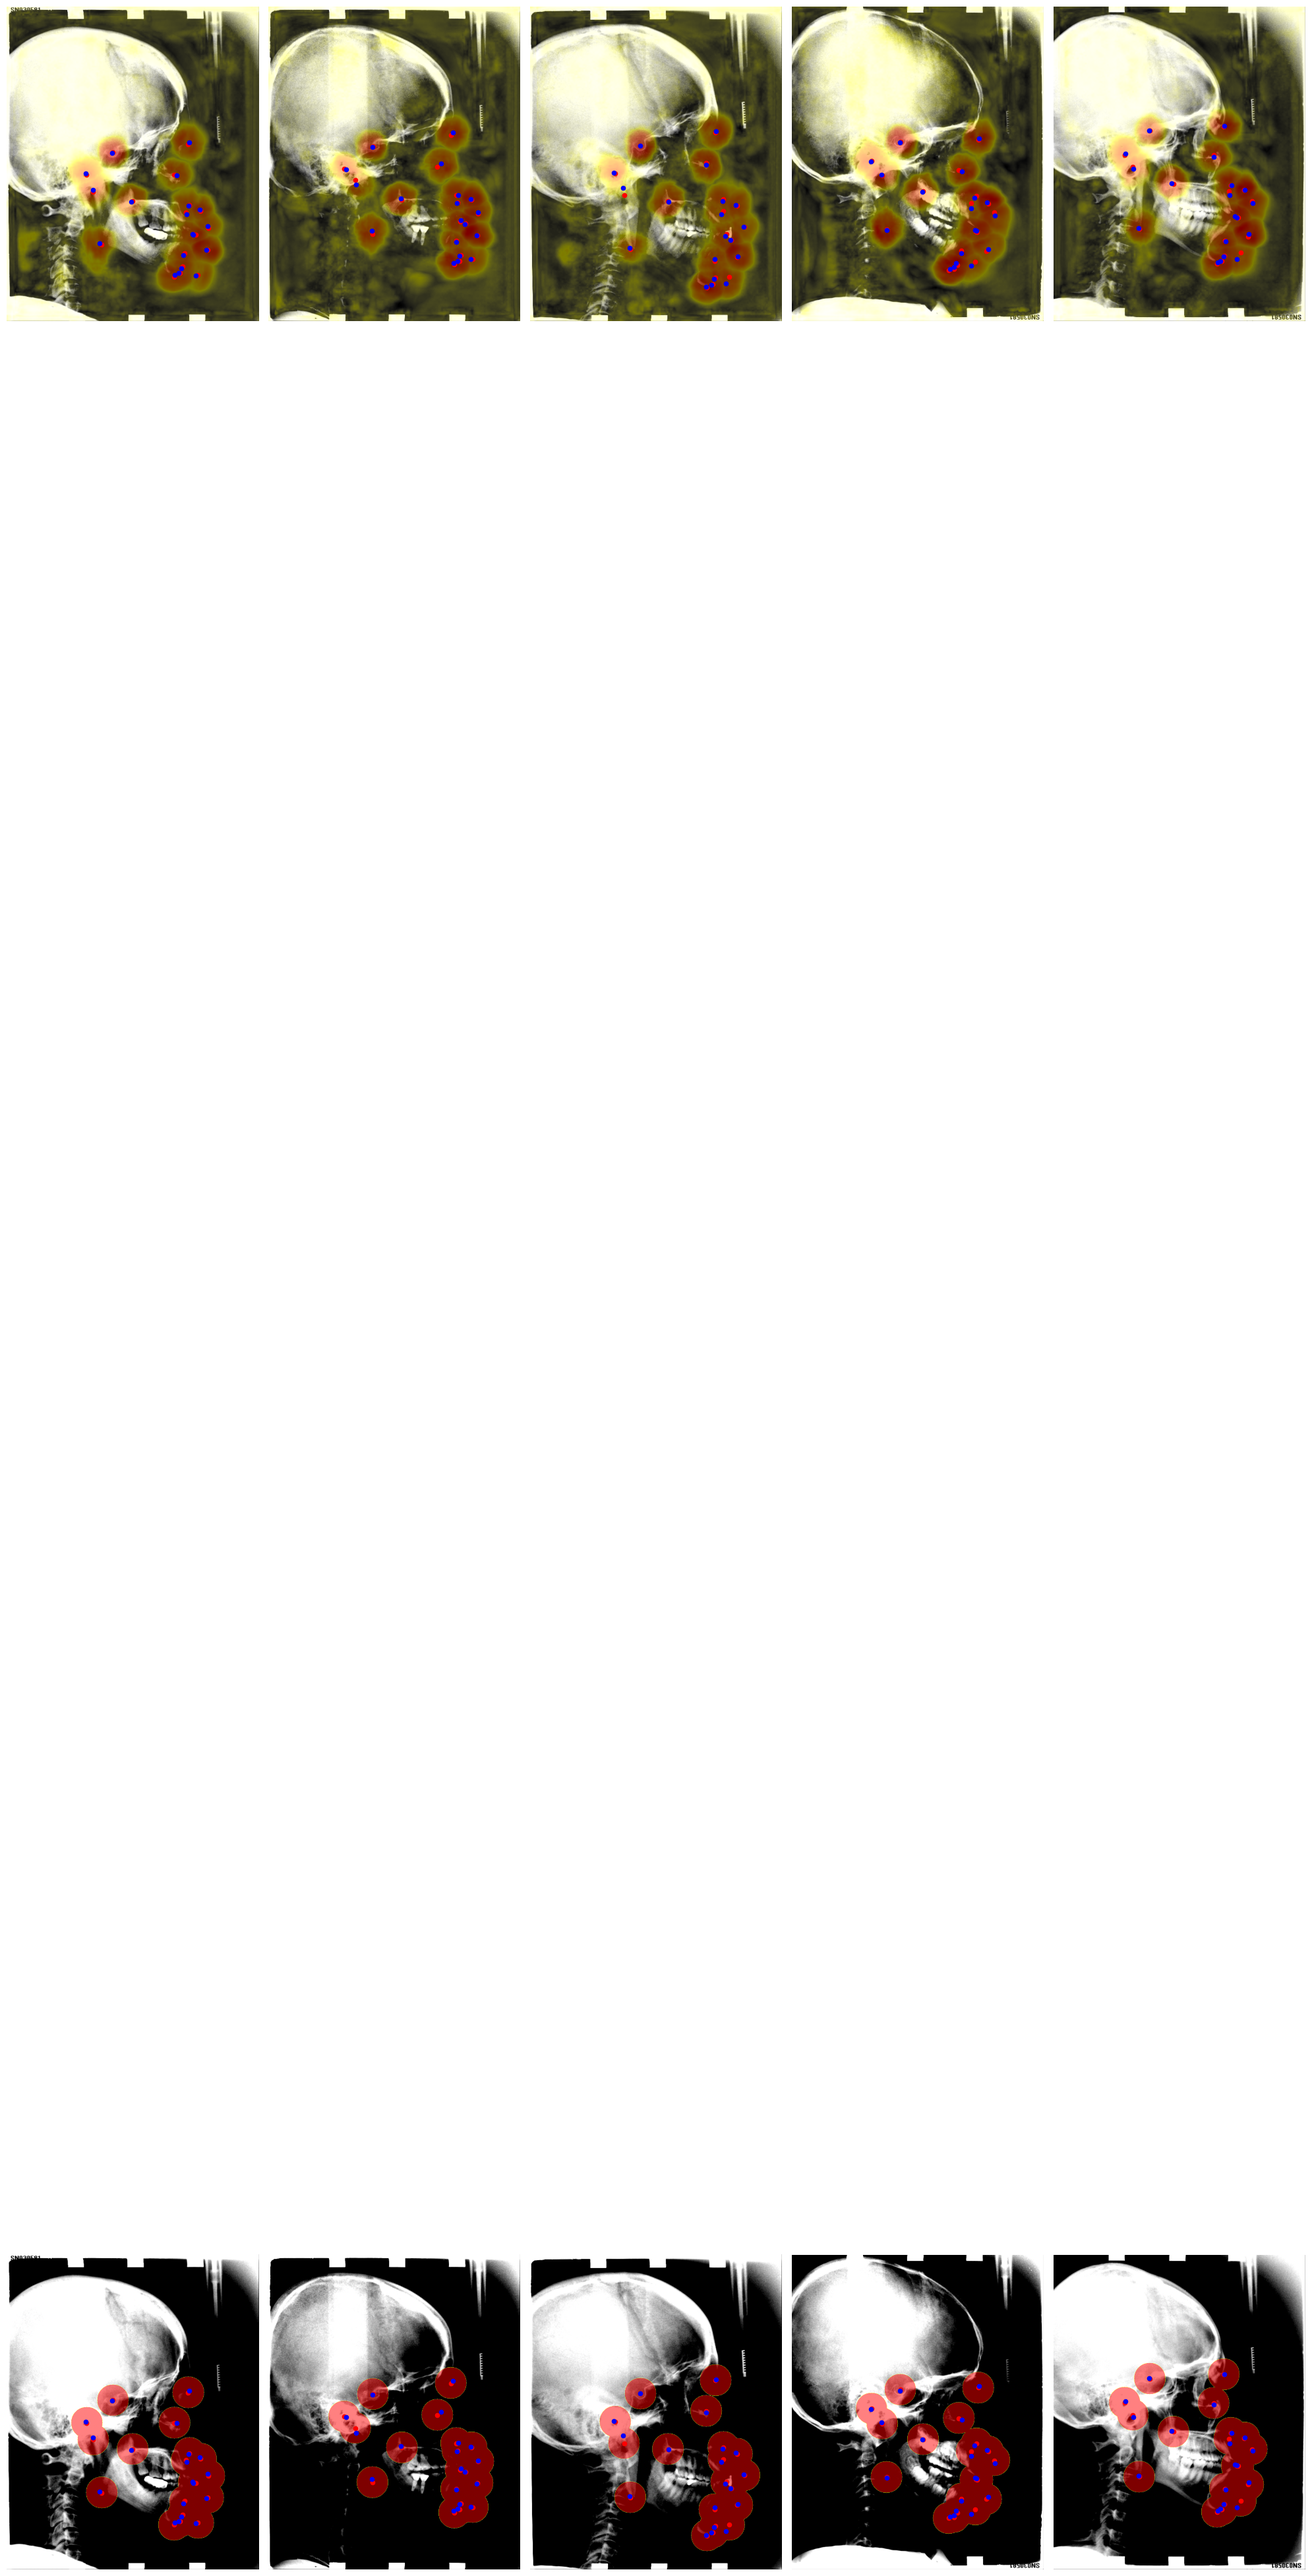
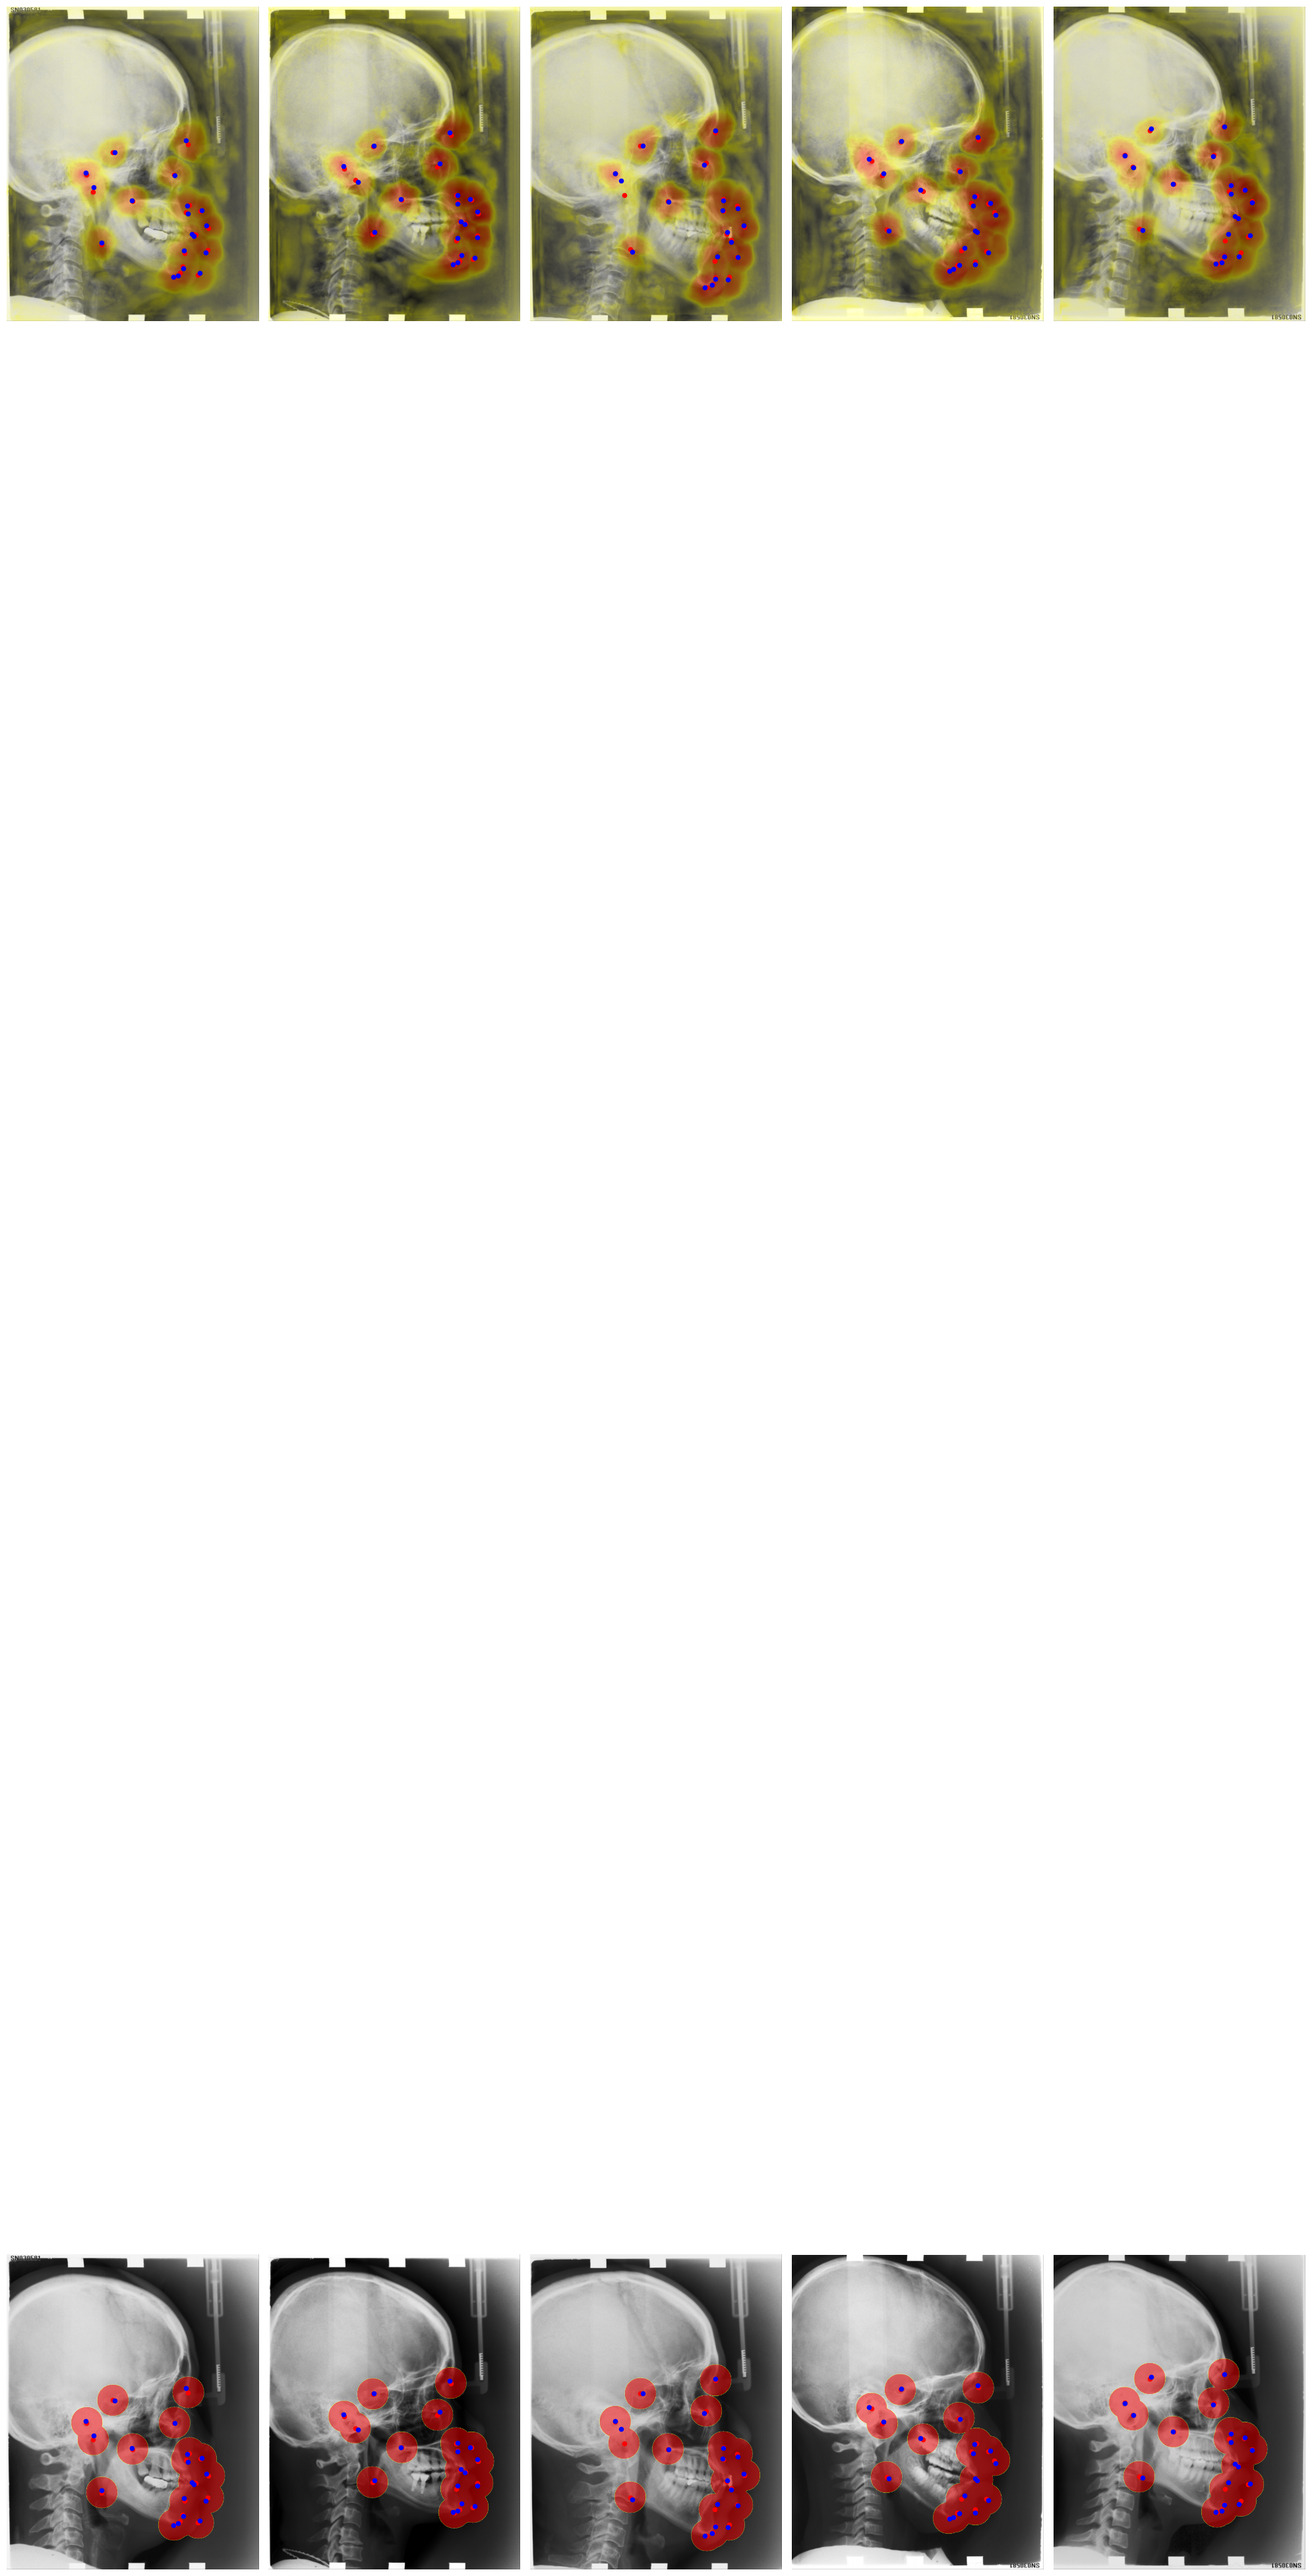
perhaps fixed image normalization, another improvement in performance

Changed region(s): [[0.0, 0.8743, 0.997, 0.9992], [0.0, 0.0, 0.997, 0.1249]]

diff --git a/experiment/dataset/LateralSkullRadiographDataset.py b/experiment/dataset/LateralSkullRadiographDataset.py
@@ -133,14 +133,6 @@ class LateralSkullRadiographDataset(Dataset):
             torch.stack(points),
         )
 
-    def _normalize(self, images: torch.Tensor) -> torch.Tensor:
-        normalize = transforms.Normalize(
-            mean=images.mean(),
-            std=images.std(),
-        )
-
-        return normalize(images)
-
     def _load_data(self) -> tuple[torch.Tensor, torch.Tensor, torch.Tensor]:
         point_ids = self._load_point_ids()
 
@@ -155,7 +147,8 @@ class LateralSkullRadiographDataset(Dataset):
 
             self._save_to_pickle(images, points)
 
-        images = self._normalize(images)
+        print(images.min(), images.max())
+        exit()
 
         return images, points, point_ids
 
